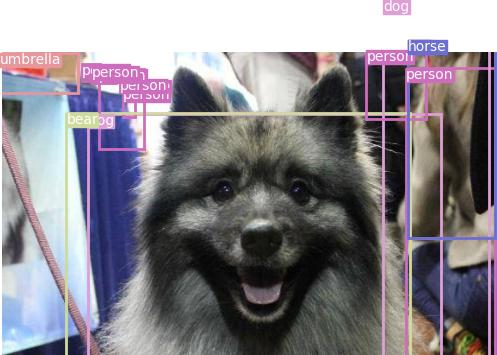
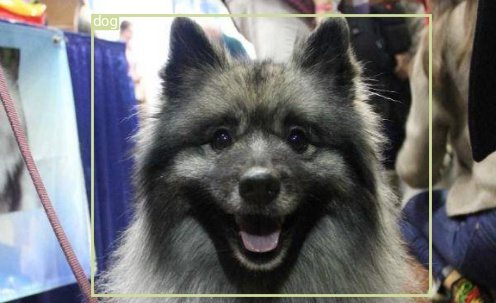
update

diff --git a/app.py b/app.py
@@ -5,6 +5,7 @@ import cv2
 import time
 from datetime import timedelta
 from detection_yolov3 import run, conf
+
 ALLOWED_EXTENSIONS = set([
     "png","jpg","JPG","PNG", "bmp"
 ])
@@ -23,15 +24,16 @@ def upload():
         f = request.files['file']
         if not ( f and is_allowed_file(f.filename)):
             return jsonify({
-                "error":1001, "msg":"请检查上传的图片类型，仅限于png、PNG、jpg、JPG、bmp"
+                "error": 11, 
+                "msg": f"Only {list(ALLOWED_EXTENSIONS)} are supported currently. Please check your file format."
             })
         user_input = request.form.get("name")
 
         basepath = os.path.dirname(__file__)
-        upload_path = os.path.join(basepath, "static/images",secure_filename(f.filename))
+        upload_path = os.path.join(basepath, "static/images", secure_filename(f.filename))
         f.save(upload_path)
         
-        detected_path = os.path.join(basepath, "static/images", "output" + secure_filename(f.filename))
+        detected_path = os.path.join(basepath, "static/images", "output_" + secure_filename(f.filename))
         run(upload_path, conf, detected_path)
 
         # return render_template("upload_ok.html", userinput = user_input, val1=time.time(), path = detected_path)
@@ -41,4 +43,4 @@ def upload():
 
 
 if __name__ == "__main__":
-    app.run(host='0.0.0.0', port=80, debug=True)
+    app.run(host='0.0.0.0', port=7100, debug=True)

diff --git a/detection_yolov3.py b/detection_yolov3.py
@@ -47,10 +47,10 @@ class custom_dict(dict):
         return super().__setitem__(self.__key(key), value)
 
 conf = custom_dict({
-    "model_def":"yolov3/yolov3_models/yolov3-tiny.cfg",
-    "weights_path":"yolov3/yolov3_models/yolov3-tiny.weights",
+    "model_def":"yolov3/yolov3_models/yolov3.cfg",
+    "weights_path":"yolov3/yolov3_models/yolov3.weights",
     "class_path":"yolov3/yolov3_models/coco.names",
-    "conf_thres":0.01,
+    "conf_thres":0.8,
     "nms_thres":0.4,
     "img_size":416
 })
@@ -73,7 +73,7 @@ def run(img_path, conf, target_path):
     img = Image.open(img_path).convert("RGB")
     img = img.resize(((img.size[0] // 32) * 32, (img.size[1] // 32) * 32))
     img_array = np.array(img)
-    img_tensor = pad_to_square(transforms.ToTensor()(img),0)[0].unsqueeze(0)
+    img_tensor = pad_to_square(transforms.ToTensor()(img),0)[0].unsqueeze(0).to(device)
     conf.img_size = img_tensor.shape[2]
     
     with torch.no_grad():
@@ -91,7 +91,6 @@ def run(img_path, conf, target_path):
         unique_labels = detections[:, -1].cpu().unique()
         n_cls_preds = len(unique_labels)
         bbox_colors = random.sample(colors, n_cls_preds)
-        # for x1, y1, x2, y2, conf, cls_conf, cls_pred in detections:
         for x1, y1, x2, y2, cls_conf, cls_pred in detections:
 
             print("\t+ Label: %s, Conf: %.5f" % (classes[int(cls_pred)], cls_conf.item()))
